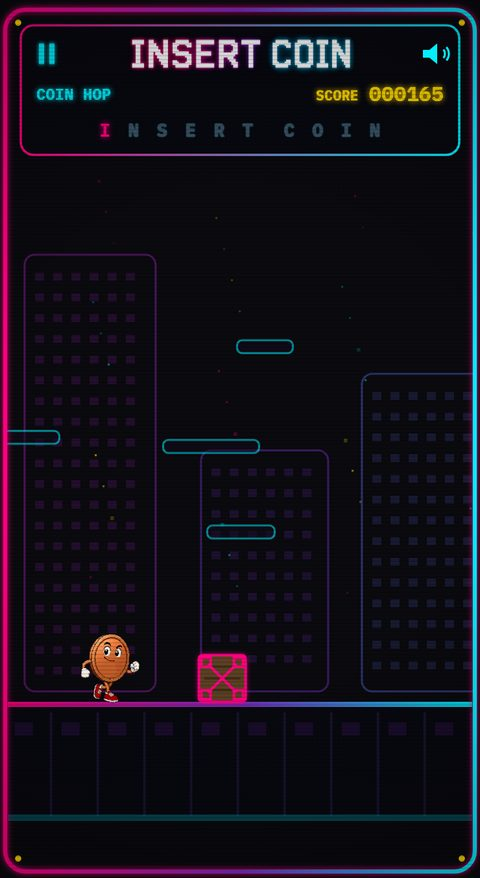
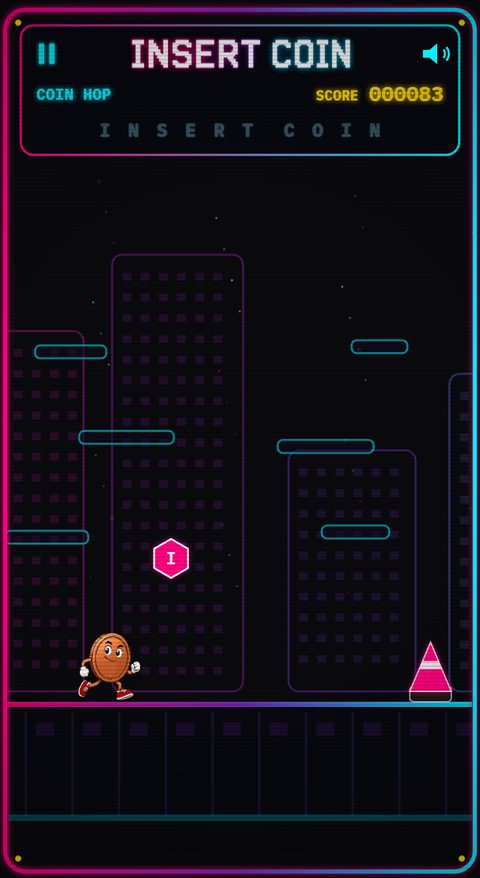
Ralph edits on 84874f4: CRT caption (+ paid-build comment), Casey's Ralph-cleared FREE PLAY screens, 'For adults 18+' grouping, family origin line, 'Planned for early 2027', CRT page footers. CANDIDATE, local only, not published.

diff --git a/index.html b/index.html
@@ -50,6 +50,9 @@
 <p>Here is where each app is today. Timing is our best estimate and may change. Nothing is offered for sale on this site.</p>
 <ul class="brand-index">
   <li>CRT Buddy — in testing</li>
+</ul>
+<p class="brand-index-label">For adults 18+:</p>
+<ul class="brand-index">
   <li>Draw Buddy<sup>™</sup> (18+) — in development for the app stores</li>
   <li>Reveal Buddy (18+) — in development</li>
   <li>Worth Buddy (18+) — early prototype</li>
@@ -60,8 +63,8 @@
   <h2 id="crt-buddy-title">CRT Buddy</h2>
   <p class="band-intro">Retro arcade games for kids and families. A brand of Insert Coin Industries.</p>
   <div class="card app-card">
-    <p>CRT Buddy started as a few games our founder made so his son could play as himself. It has grown into a collection of short retro arcade games, with looks you can pick for your player.</p>
-    <p class="app-status"><span class="app-status-label">Where it's at:</span> In testing. Coming to the web first, then the App Store and Google Play. Expected winter&nbsp;2026–27.</p>
+    <p>CRT Buddy started as a few games our founder made for his family. It has grown into a collection of short retro arcade games, with looks you can pick for your player.</p>
+    <p class="app-status"><span class="app-status-label">Where it's at:</span> In testing. Coming to the web first, then the App Store and Google Play. Planned for early&nbsp;2027.</p>
     <div class="app-shots">
       <figure>
         <img src="/assets/apps/crt-buddy-picker.jpg" width="480" height="878" loading="lazy" alt="CRT Buddy test build: the game picker, with categories such as Classics, Runners, Sports and Puzzle.">
@@ -72,9 +75,12 @@
         <figcaption>A runner game in play</figcaption>
       </figure>
     </div>
-    <p class="fine-print">Screens from our current test build. More on the <a href="/games/">CRT Buddy page</a>.</p>
+    <p class="fine-print">Screens from a test build. Free to play. Nothing can be bought or won.</p>
+    <!-- When the paid I¢ build ships, change to: Screens from a test build. Nothing can be won. -->
   </div>
 </section>
+
+<h2 class="group-heading" id="for-adults">For adults 18+</h2>
 
 <section class="band band-lottery" id="draw-buddy" aria-labelledby="draw-buddy-title">
   <p class="section-kicker">In development</p>

diff --git a/products.html b/products.html
@@ -47,6 +47,9 @@
 <p>Here is where each app is today. Timing is our best estimate and may change. Nothing is offered for sale on this site.</p>
 <ul class="brand-index">
   <li>CRT Buddy — in testing</li>
+</ul>
+<p class="brand-index-label">For adults 18+:</p>
+<ul class="brand-index">
   <li>Draw Buddy<sup>™</sup> (18+) — in development for the app stores</li>
   <li>Reveal Buddy (18+) — in development</li>
   <li>Worth Buddy (18+) — early prototype</li>
@@ -57,8 +60,8 @@
   <h2 id="crt-buddy-title">CRT Buddy</h2>
   <p class="band-intro">Retro arcade games for kids and families. A brand of Insert Coin Industries.</p>
   <div class="card app-card">
-    <p>CRT Buddy started as a few games our founder made so his son could play as himself. It has grown into a collection of short retro arcade games, with looks you can pick for your player.</p>
-    <p class="app-status"><span class="app-status-label">Where it's at:</span> In testing. Coming to the web first, then the App Store and Google Play. Expected winter&nbsp;2026–27.</p>
+    <p>CRT Buddy started as a few games our founder made for his family. It has grown into a collection of short retro arcade games, with looks you can pick for your player.</p>
+    <p class="app-status"><span class="app-status-label">Where it's at:</span> In testing. Coming to the web first, then the App Store and Google Play. Planned for early&nbsp;2027.</p>
     <div class="app-shots">
       <figure>
         <img src="/assets/apps/crt-buddy-picker.jpg" width="480" height="878" loading="lazy" alt="CRT Buddy test build: the game picker, with categories such as Classics, Runners, Sports and Puzzle.">
@@ -69,9 +72,12 @@
         <figcaption>A runner game in play</figcaption>
       </figure>
     </div>
-    <p class="fine-print">Screens from our current test build. More on the <a href="/games/">CRT Buddy page</a>.</p>
+    <p class="fine-print">Screens from a test build. Free to play. Nothing can be bought or won.</p>
+    <!-- When the paid I¢ build ships, change to: Screens from a test build. Nothing can be won. -->
   </div>
 </section>
+
+<h2 class="group-heading" id="for-adults">For adults 18+</h2>
 
 <section class="band band-lottery" id="draw-buddy" aria-labelledby="draw-buddy-title">
   <p class="section-kicker">In development</p>

diff --git a/games/index.html b/games/index.html
@@ -47,8 +47,8 @@
   <h2 id="arcade-games-heading">CRT Buddy</h2>
   <p class="band-intro">Retro arcade games for kids and families. A brand of Insert Coin Industries.</p>
   <div class="card app-card">
-    <p>CRT Buddy started as a few games our founder made so his son could play as himself. It has grown into a collection of short retro arcade games, with looks you can pick for your player.</p>
-    <p class="app-status"><span class="app-status-label">Where it's at:</span> In testing. Coming to the web first, then the App Store and Google Play. Expected winter&nbsp;2026–27.</p>
+    <p>CRT Buddy started as a few games our founder made for his family. It has grown into a collection of short retro arcade games, with looks you can pick for your player.</p>
+    <p class="app-status"><span class="app-status-label">Where it's at:</span> In testing. Coming to the web first, then the App Store and Google Play. Planned for early&nbsp;2027.</p>
     <div class="app-shots">
       <figure>
         <img src="/assets/apps/crt-buddy-picker.jpg" width="480" height="878" loading="lazy" alt="CRT Buddy test build: the game picker, with categories such as Classics, Runners, Sports and Puzzle.">
@@ -59,7 +59,8 @@
         <figcaption>A runner game in play</figcaption>
       </figure>
     </div>
-    <p class="fine-print">Screens from our current test build.</p>
+    <p class="fine-print">Screens from a test build. Free to play. Nothing can be bought or won.</p>
+    <!-- When the paid I¢ build ships, change to: Screens from a test build. Nothing can be won. -->
   </div>
 </section>
 

diff --git a/css/site.css b/css/site.css
@@ -457,3 +457,6 @@ li > ul, li > ol { margin-top: 0.35rem; margin-bottom: 0.35rem; }
 .band-games .app-status { background: #1a1f2e; }
 .band-games .app-status-label { color: #22d3ee; }
 .band-games .app-shots figcaption, .band-games .fine-print { color: #b7c0d0; }
+.brand-index-label { margin: 0 0 0.3rem; font-size: 0.95rem; font-weight: 700; color: var(--ink); }
+.brand-index + .brand-index-label { margin-top: -1.4rem; }
+.group-heading { margin-top: 2.75rem; padding-top: 1.25rem; border-top: 1px solid var(--line); }

diff --git a/crtbuddy/privacy/index.html b/crtbuddy/privacy/index.html
@@ -85,7 +85,7 @@ footer {
     <h2>Contact</h2>
     <p>Questions about this policy: <a href="mailto:support@insertcoinindustries.com">support@insertcoinindustries.com</a></p>
     <footer>
-      <p>Insert Coin Industries LLC.</p>
+      <p>Insert Coin Industries LLC</p>
       <p><a href="/crtbuddy/support">CRT Buddy Support</a></p>
     </footer>
   </div>

diff --git a/crtbuddy/support/index.html b/crtbuddy/support/index.html
@@ -73,7 +73,7 @@ footer {
     <h2>Privacy</h2>
     <p>See the <a href="/crtbuddy/privacy">CRT Buddy Privacy Policy</a>.</p>
     <footer>
-      <p>Insert Coin Industries LLC.</p>
+      <p>Insert Coin Industries LLC</p>
       <p><a href="/crtbuddy/privacy">CRT Buddy Privacy Policy</a></p>
     </footer>
   </div>
